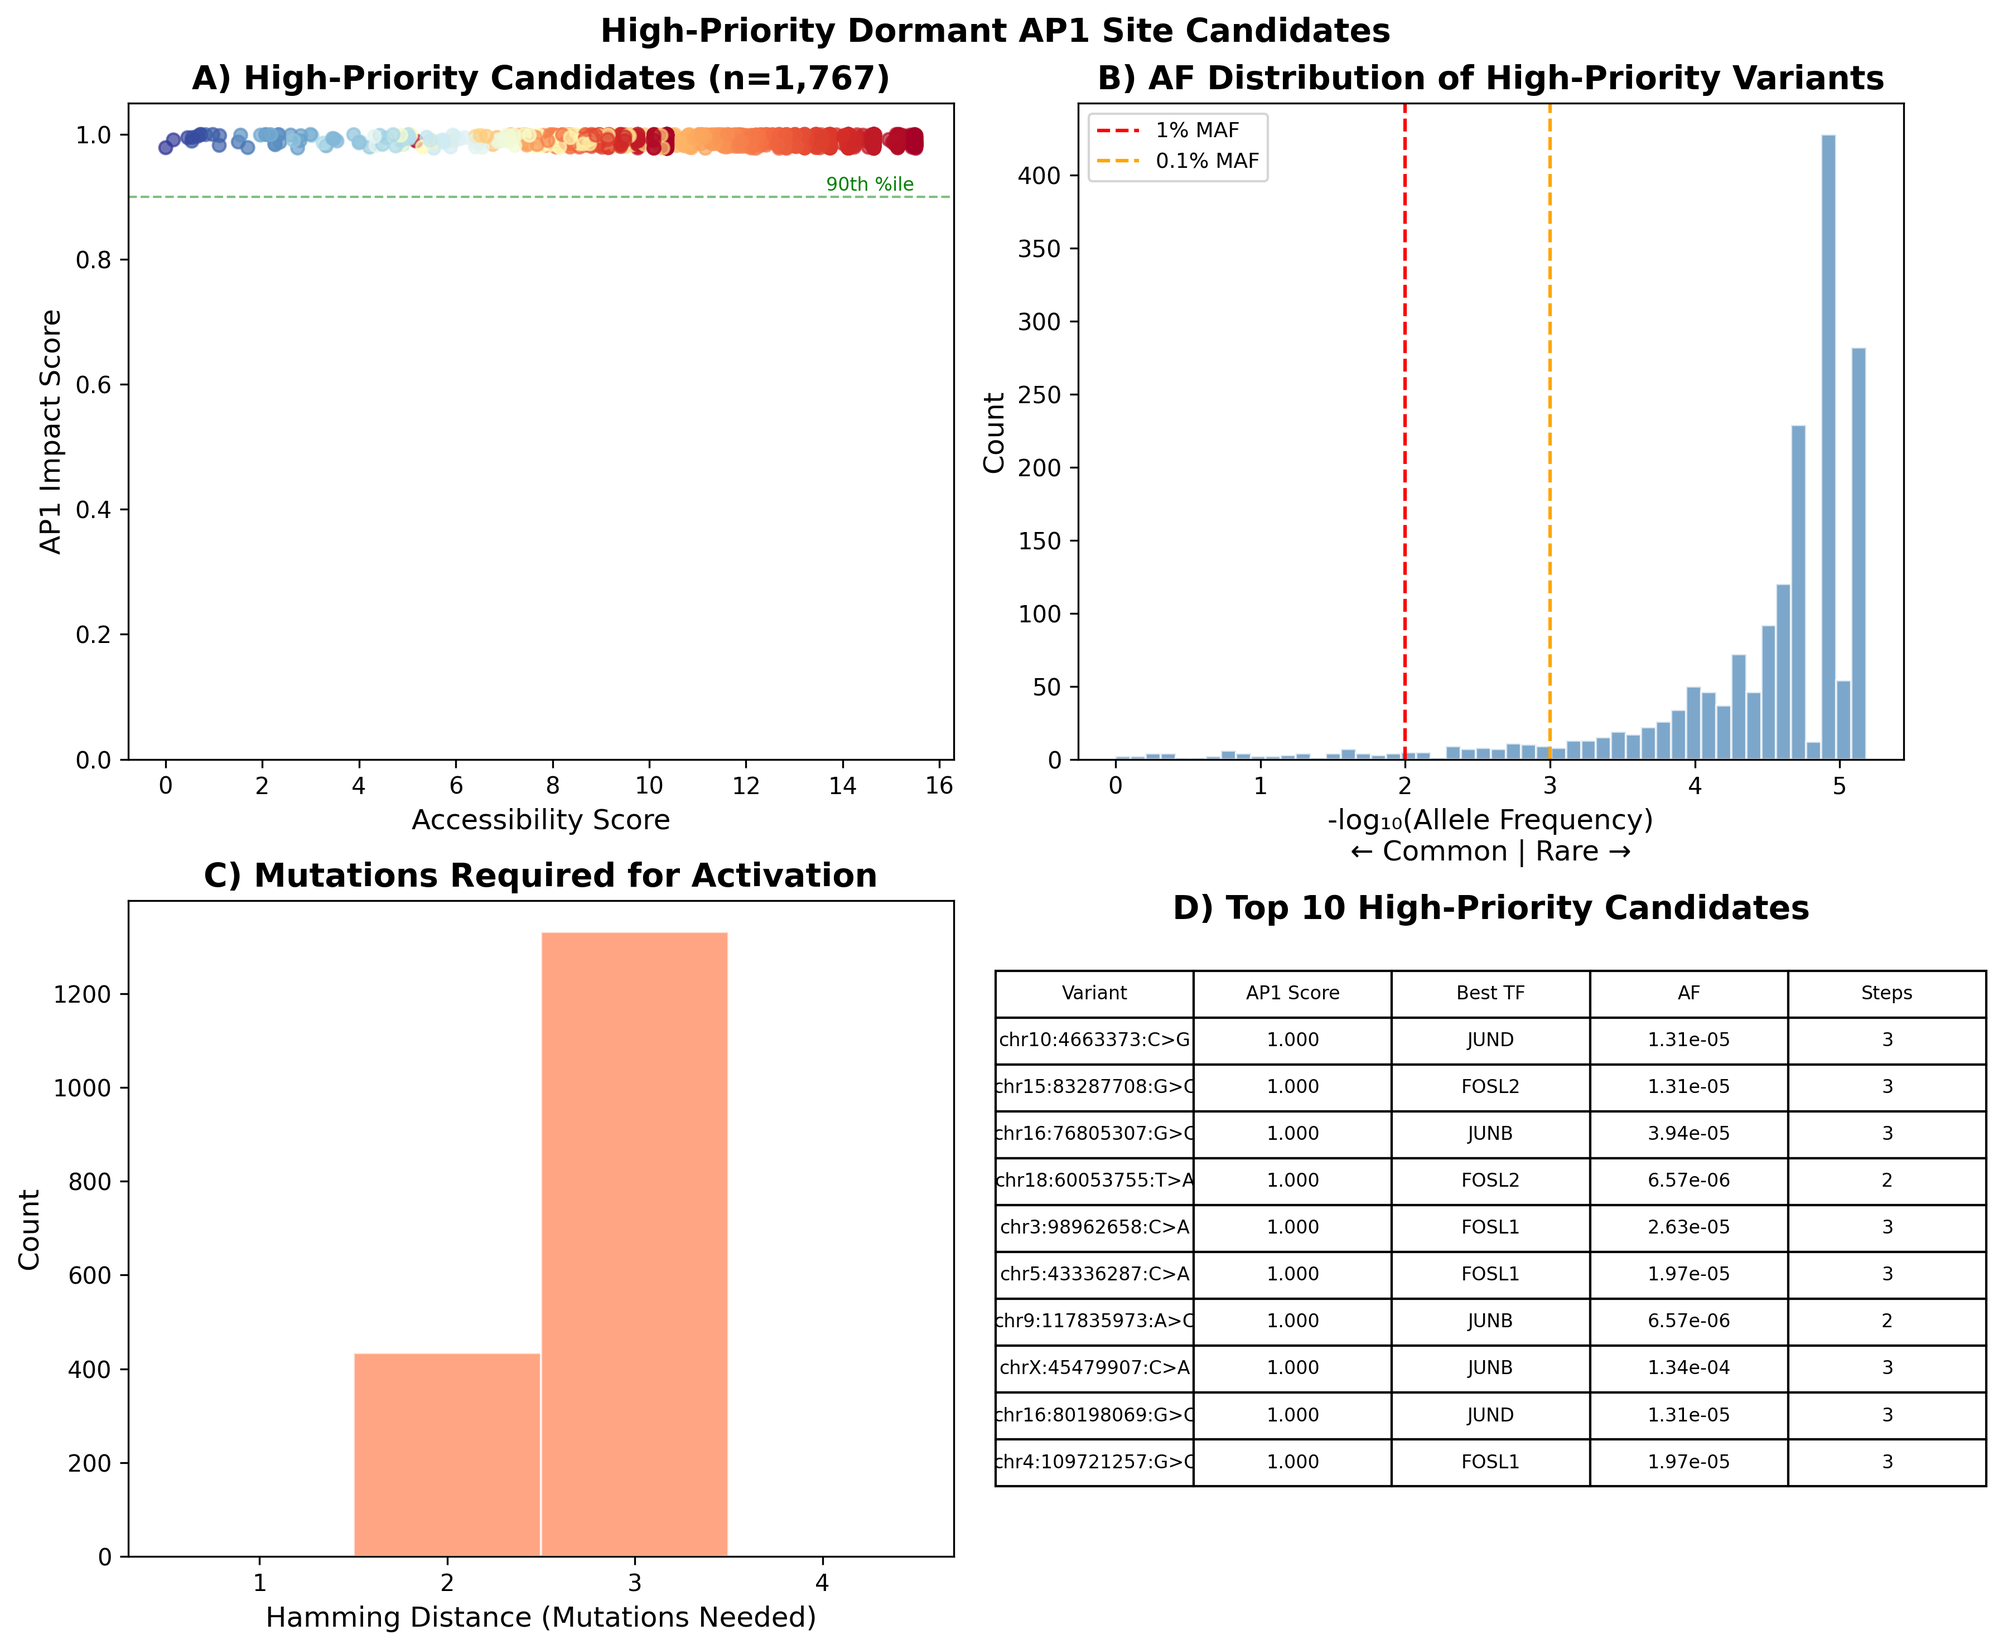
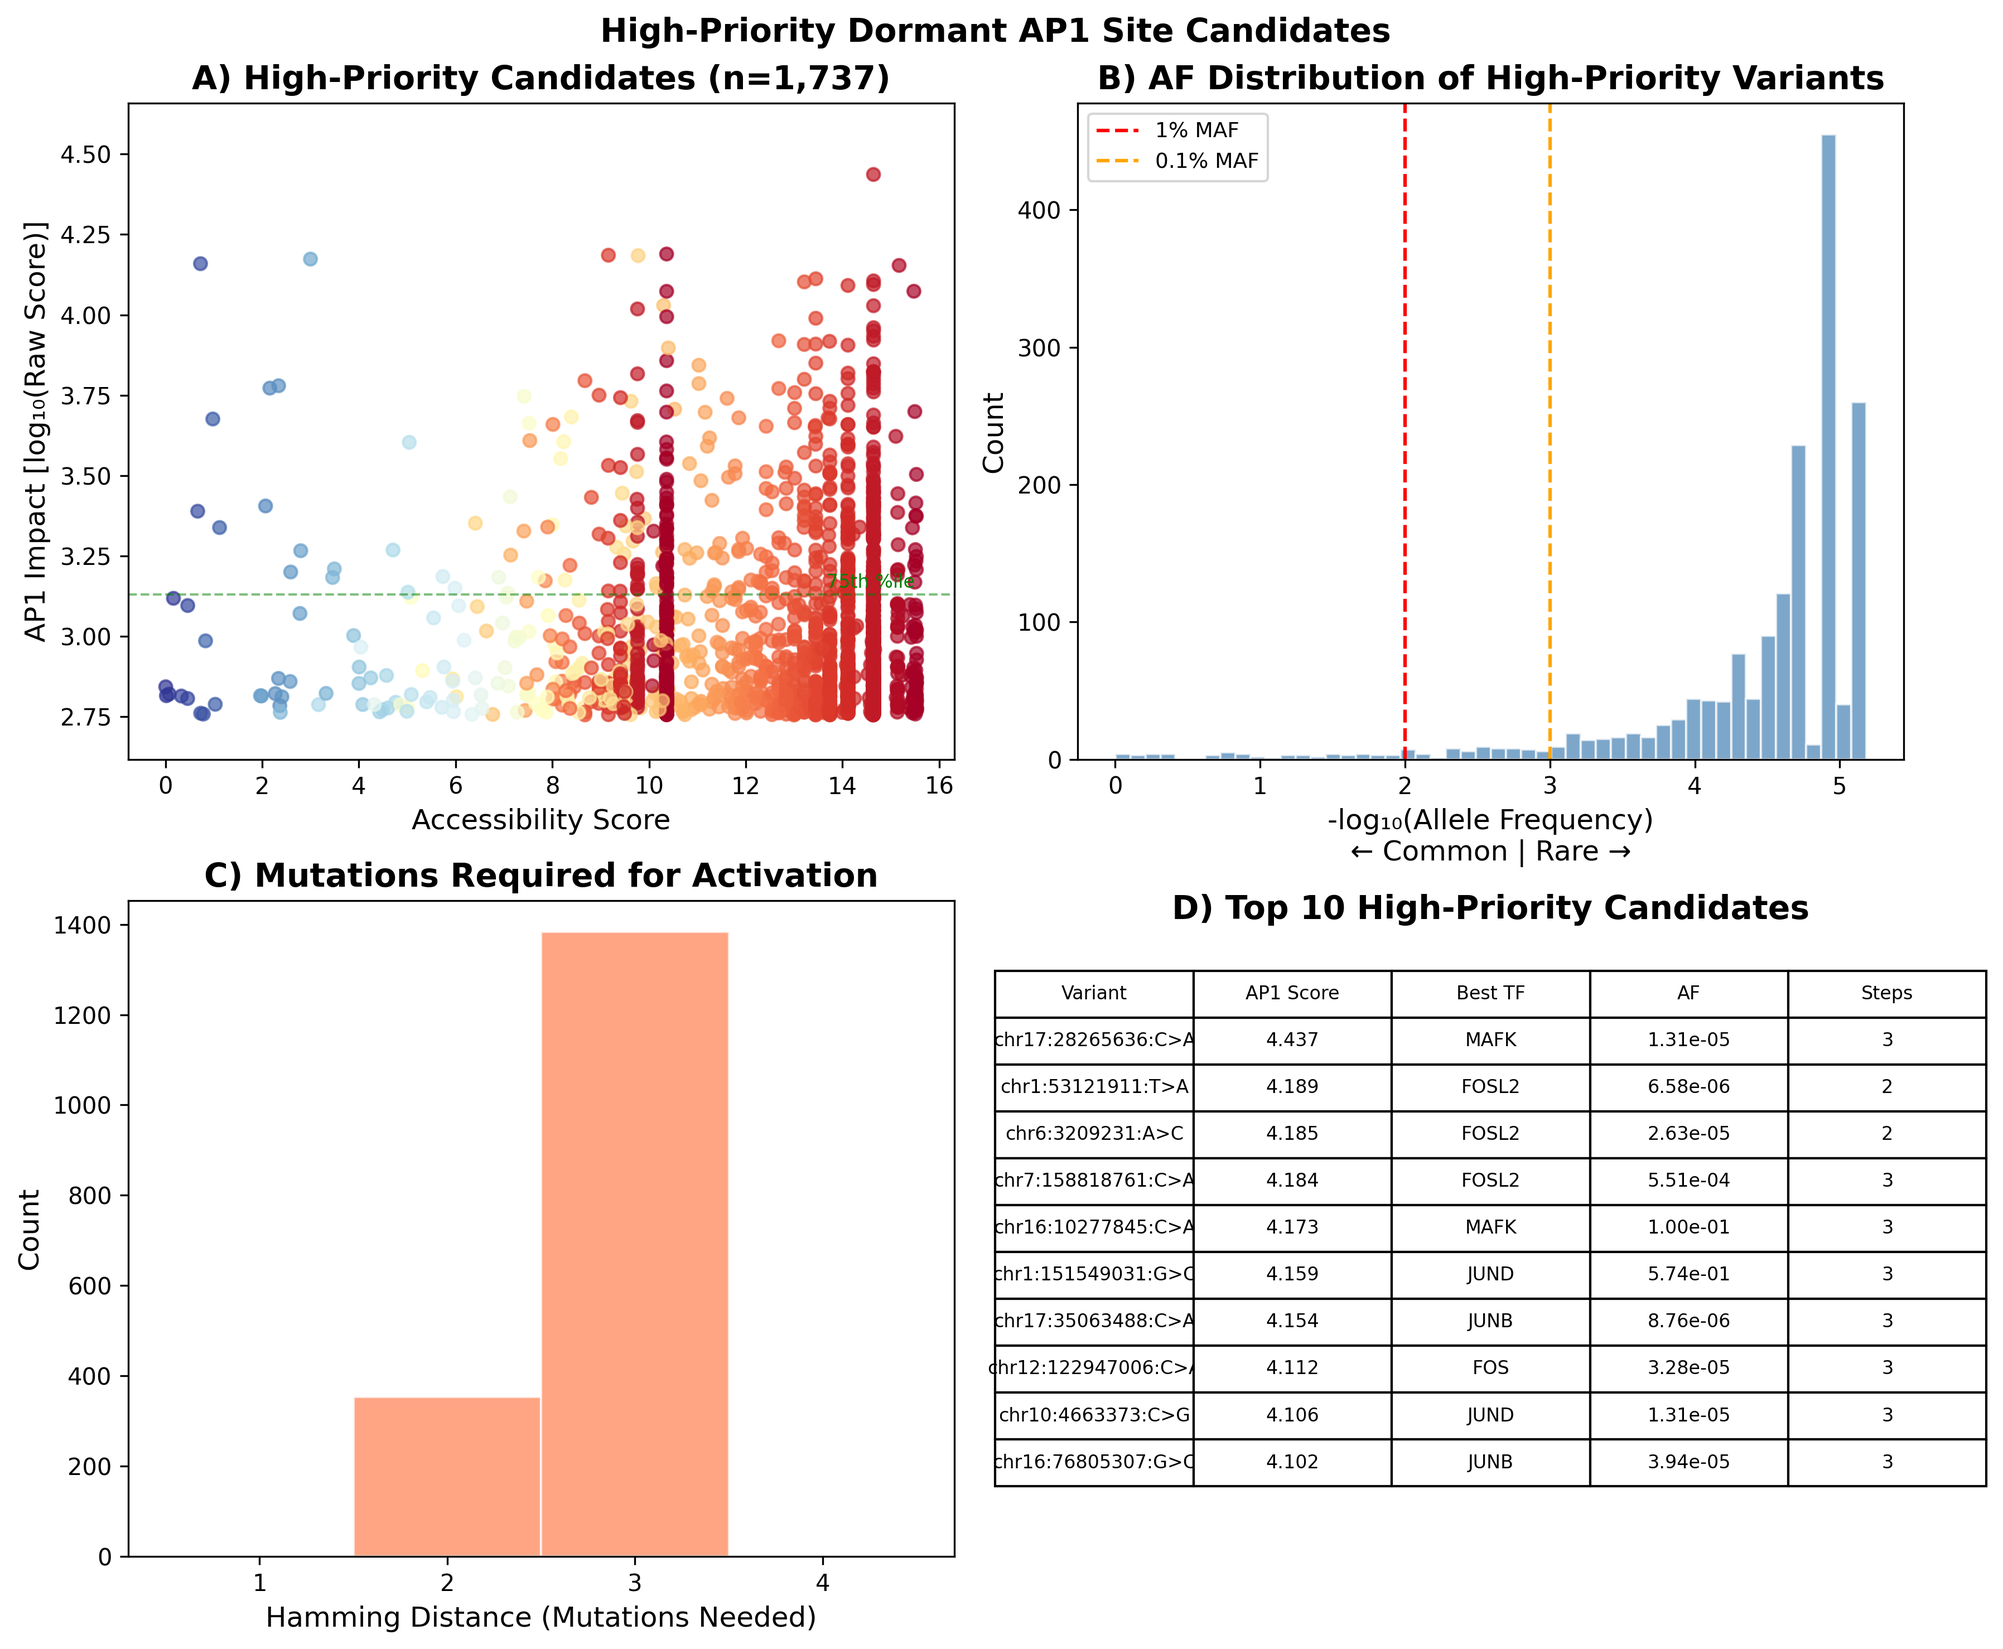
Use raw AlphaGenome scores in figures to show selection signal (r=0.099, p<1e-15)

diff --git a/05_compute_activation_landscape/plot_activation_landscape.py b/05_compute_activation_landscape/plot_activation_landscape.py
@@ -66,6 +66,9 @@ def plot_main_landscape(
     This is the key figure showing which dormant sites are both:
     - Accessible through human variation (low X)
     - Functionally impactful when activated (high Y)
+    
+    Y-axis now uses LOG-TRANSFORMED RAW SCORES (not quantile scores) to show
+    the true effect magnitude and preserve the selection signal.
     """
     fig, ax = plt.subplots(figsize=(10, 8))
     
@@ -82,6 +85,7 @@ def plot_main_landscape(
     af_colors = np.log10(plot_data['AF_final'].clip(lower=1e-6))
     
     # Main scatter plot
+    # Y-axis is now log10(raw_score), typically ranging from ~0.5 to ~4.5
     scatter = ax.scatter(
         plot_data['x_accessibility'],
         plot_data['y_ap1_impact'],
@@ -94,12 +98,16 @@ def plot_main_landscape(
         vmax=0
     )
     
-    # Force Y-axis to show FULL 0-1 scale (critical for interpretation!)
-    ax.set_ylim(0, 1.05)
+    # Y-axis: log10(raw_score) ranges from ~0.5 to ~4.5
+    # Set axis to show full range with some padding
+    y_min_data = plot_data['y_ap1_impact'].min()
+    y_max_data = plot_data['y_ap1_impact'].max()
+    ax.set_ylim(0, y_max_data * 1.1)
     
-    # Add reference line at 90th percentile
-    ax.axhline(y=0.9, color='green', linestyle=':', linewidth=1, alpha=0.7)
-    ax.text(ax.get_xlim()[0] + 0.5, 0.91, '90th percentile', fontsize=8, color='green')
+    # Add reference lines at key thresholds (75th percentile in raw score space)
+    y_75th = plot_data['y_ap1_impact'].quantile(0.75)
+    ax.axhline(y=y_75th, color='green', linestyle=':', linewidth=1, alpha=0.7)
+    ax.text(ax.get_xlim()[0] + 0.5, y_75th + 0.05, '75th %ile (strong effect)', fontsize=8, color='green')
     
     # Add colorbar
     cbar = plt.colorbar(scatter, ax=ax, label='log₁₀(Allele Frequency)', shrink=0.8)
@@ -145,7 +153,7 @@ def plot_main_landscape(
     # Labels and title
     ax.set_xlabel('Population Accessibility Score\n[-log₁₀(AF) × Hamming Distance]\n← More Accessible | Harder to Access →', 
                   fontsize=11)
-    ax.set_ylabel('AP1-Family TF Binding Impact\n[Max Quantile Score: JUND, JUN, FOS, FOSL1/2, ATF3, BATF]',
+    ax.set_ylabel('AP1-Family TF Binding Impact\n[log₁₀(Raw Effect Score)]',
                   fontsize=11)
     ax.set_title(title, fontsize=14, fontweight='bold')
     
@@ -177,10 +185,10 @@ def plot_comparison_panels(
 ):
     """
     Create multi-panel comparison figure showing:
-    1. AP1-specific Y-axis (our approach)
-    2. Global max Y-axis (naive approach)
-    3. Enhancer marks validation
-    4. Accessibility tracks
+    1. AP1-specific Y-axis using RAW SCORES (our approach - shows selection signal)
+    2. Global max Y-axis (naive approach - quantile scores)
+    3. Enhancer marks validation (quantile scores)
+    4. Correlation: raw AP1 scores vs enhancer marks
     """
     fig, axes = plt.subplots(2, 2, figsize=(14, 12))
     
@@ -189,27 +197,28 @@ def plot_comparison_panels(
     # Common settings
     x = plot_data['x_accessibility']
     
-    # Panel A: AP1-specific (PRIMARY - our approach)
+    # Panel A: AP1-specific using RAW SCORES (PRIMARY - our approach)
     ax = axes[0, 0]
-    y = plot_data['y_ap1_impact']
-    scatter = ax.scatter(x, y, c=y, cmap='Reds', alpha=0.5, s=10, vmin=0, vmax=1)
+    y = plot_data['y_ap1_impact']  # This is now log10(raw_score)
+    y_min, y_max = y.min(), y.max()
+    scatter = ax.scatter(x, y, c=y, cmap='Reds', alpha=0.5, s=10, vmin=y_min, vmax=y_max)
     ax.set_xlabel('Accessibility Score')
-    ax.set_ylabel('AP1-Family TF Impact')
-    ax.set_title('A) PRIMARY: AP1-Family TF Binding\n(JUND, JUN, FOS, FOSL1/2, ATF3, BATF)', fontweight='bold')
-    ax.set_ylim(0, 1.05)  # Full 0-1 scale for interpretability
-    plt.colorbar(scatter, ax=ax, label='Quantile Score')
+    ax.set_ylabel('AP1-Family TF Impact [log₁₀(Raw Score)]')
+    ax.set_title('A) PRIMARY: AP1-Family TF Binding (Raw Scores)\n(JUND, JUN, FOS, FOSL1/2, ATF3, BATF)', fontweight='bold')
+    plt.colorbar(scatter, ax=ax, label='log₁₀(Raw Score)')
     
-    # Add 90th percentile reference line and quadrant lines
-    ax.axhline(y=0.9, color='green', linestyle=':', linewidth=1, alpha=0.7)
+    # Add 75th percentile reference line and quadrant lines
+    y_75 = y.quantile(0.75)
+    ax.axhline(y=y_75, color='green', linestyle=':', linewidth=1, alpha=0.7)
     ax.axhline(y=y.median(), color='gray', linestyle='--', alpha=0.5)
     ax.axvline(x=x.median(), color='gray', linestyle='--', alpha=0.5)
     
-    # Panel B: Global max (for comparison)
+    # Panel B: Global max (for comparison - still quantile scores)
     ax = axes[0, 1]
     y_global = plot_data['global_max_score']
     scatter = ax.scatter(x, y_global, c=y_global, cmap='Purples', alpha=0.5, s=10, vmin=0, vmax=1)
     ax.set_xlabel('Accessibility Score')
-    ax.set_ylabel('Global Max Impact')
+    ax.set_ylabel('Global Max Impact [Quantile]')
     ax.set_title('B) COMPARISON: Global Max (All Tracks)\n(Less biologically specific)', fontweight='bold', color='gray')
     ax.set_ylim(0, 1.05)  # Full 0-1 scale for fair comparison
     plt.colorbar(scatter, ax=ax, label='Quantile Score')
@@ -217,12 +226,12 @@ def plot_comparison_panels(
     ax.axhline(y=y_global.median(), color='gray', linestyle='--', alpha=0.5)
     ax.axvline(x=x.median(), color='gray', linestyle='--', alpha=0.5)
     
-    # Panel C: Enhancer marks validation
+    # Panel C: Enhancer marks validation (quantile scores - for comparison)
     ax = axes[1, 0]
     y_enhancer = plot_data['enhancer_max_score'].fillna(0)
     scatter = ax.scatter(x, y_enhancer, c=y_enhancer, cmap='Greens', alpha=0.5, s=10, vmin=0, vmax=1)
     ax.set_xlabel('Accessibility Score')
-    ax.set_ylabel('Enhancer Mark Impact')
+    ax.set_ylabel('Enhancer Mark Impact [Quantile]')
     ax.set_title('C) VALIDATION: Enhancer Marks\n(H3K27ac, H3K4me1)', fontweight='bold')
     ax.set_ylim(0, 1.05)  # Full 0-1 scale for consistency
     plt.colorbar(scatter, ax=ax, label='Quantile Score')
@@ -230,13 +239,13 @@ def plot_comparison_panels(
     ax.axhline(y=y_enhancer.median(), color='gray', linestyle='--', alpha=0.5)
     ax.axvline(x=x.median(), color='gray', linestyle='--', alpha=0.5)
     
-    # Panel D: AP1 vs Enhancer correlation
+    # Panel D: AP1 Raw Score vs Enhancer Quantile correlation
     ax = axes[1, 1]
     valid_both = plot_data.dropna(subset=['y_ap1_impact', 'enhancer_max_score'])
     if len(valid_both) > 10:
         scatter = ax.scatter(
-            valid_both['y_ap1_impact'], 
-            valid_both['enhancer_max_score'],
+            valid_both['y_ap1_impact'],  # log10(raw_score)
+            valid_both['enhancer_max_score'],  # quantile
             c=valid_both['x_accessibility'],
             cmap='viridis_r',
             alpha=0.5, 
@@ -250,15 +259,10 @@ def plot_comparison_panels(
                 transform=ax.transAxes, fontsize=10,
                 verticalalignment='top',
                 bbox=dict(boxstyle='round', facecolor='white', alpha=0.8))
-        
-        # Add diagonal reference
-        ax.plot([0, 1], [0, 1], 'k--', alpha=0.3, label='y=x')
     
-    # Full 0-1 scale on both axes for consistency
-    ax.set_xlim(0, 1.05)
+    ax.set_xlabel('AP1-Family TF Impact [log₁₀(Raw Score)]')
+    ax.set_ylabel('Enhancer Mark Impact [Quantile]')
     ax.set_ylim(0, 1.05)
-    ax.set_xlabel('AP1-Family TF Impact')
-    ax.set_ylabel('Enhancer Mark Impact')
     ax.set_title('D) CONCORDANCE: AP1 vs Enhancer\n(Validates functional activation)', fontweight='bold')
     
     plt.suptitle('AP1 Dormant Site Activation Landscape - Multi-Modal Analysis', 
@@ -289,13 +293,14 @@ def plot_tf_breakdown(data: pd.DataFrame, output_path: Path):
         ax.text(bar.get_width() + 50, bar.get_y() + bar.get_height()/2,
                 f'{count:,}', va='center', fontsize=9)
     
-    # Panel B: Score distribution by TF
+    # Panel B: Score distribution by TF - USE RAW SCORES (log-transformed)
     ax = axes[1]
     tfs_to_plot = tf_counts.head(8).index.tolist()
     tf_data = data[data['ap1_best_tf'].isin(tfs_to_plot)]
     
     positions = range(len(tfs_to_plot))
-    bp_data = [tf_data[tf_data['ap1_best_tf'] == tf]['ap1_max_score'].dropna() 
+    # Use y_ap1_impact which is now log10(raw_score)
+    bp_data = [tf_data[tf_data['ap1_best_tf'] == tf]['y_ap1_impact'].dropna() 
                for tf in tfs_to_plot]
     
     bp = ax.boxplot(bp_data, positions=positions, patch_artist=True)
@@ -305,10 +310,11 @@ def plot_tf_breakdown(data: pd.DataFrame, output_path: Path):
     
     ax.set_xticks(positions)
     ax.set_xticklabels(tfs_to_plot, rotation=45, ha='right')
-    ax.set_ylabel('AP1 Max Quantile Score')
-    ax.set_ylim(0, 1.05)  # Full 0-1 scale for proper interpretation
-    ax.axhline(y=0.9, color='green', linestyle=':', linewidth=1, alpha=0.7)
-    ax.set_title('B) Score Distribution by TF', fontweight='bold')
+    ax.set_ylabel('AP1 Impact [log₁₀(Raw Score)]')
+    # Use data-driven y-limits for log-transformed raw scores
+    y_75 = data['y_ap1_impact'].quantile(0.75)
+    ax.axhline(y=y_75, color='green', linestyle=':', linewidth=1, alpha=0.7)
+    ax.set_title('B) Effect Size Distribution by TF', fontweight='bold')
     
     plt.suptitle('AP1-Family Transcription Factor Analysis', fontsize=12, fontweight='bold')
     plt.tight_layout()
@@ -336,7 +342,7 @@ def plot_high_priority_detail(data: pd.DataFrame, output_path: Path):
     
     fig, axes = plt.subplots(2, 2, figsize=(12, 10))
     
-    # Panel A: Zoom on high-priority quadrant - USE FULL 0-1 SCALE
+    # Panel A: Zoom on high-priority quadrant - use actual data range for log(raw_score)
     ax = axes[0, 0]
     scatter = ax.scatter(
         high_priority['x_accessibility'],
@@ -347,13 +353,17 @@ def plot_high_priority_detail(data: pd.DataFrame, output_path: Path):
         s=30
     )
     ax.set_xlabel('Accessibility Score')
-    ax.set_ylabel('AP1 Impact Score')
-    ax.set_ylim(0, 1.05)  # Full 0-1 scale to show how impressive these scores are
+    ax.set_ylabel('AP1 Impact [log₁₀(Raw Score)]')
+    # Use actual data range for log-transformed raw scores
+    y_min = high_priority['y_ap1_impact'].min() * 0.95
+    y_max = high_priority['y_ap1_impact'].max() * 1.05
+    ax.set_ylim(y_min, y_max)
     ax.set_title(f'A) High-Priority Candidates (n={len(high_priority):,})', fontweight='bold')
     
-    # Add annotation showing where the data actually is
-    ax.axhline(y=0.9, color='green', linestyle='--', alpha=0.5, linewidth=1)
-    ax.text(ax.get_xlim()[1] * 0.95, 0.91, '90th %ile', ha='right', fontsize=8, color='green')
+    # Add annotation showing 75th percentile
+    y_75 = high_priority['y_ap1_impact'].quantile(0.75)
+    ax.axhline(y=y_75, color='green', linestyle='--', alpha=0.5, linewidth=1)
+    ax.text(ax.get_xlim()[1] * 0.95, y_75 + 0.02, '75th %ile', ha='right', fontsize=8, color='green')
     
     # Panel B: AF distribution of high-priority - use -log10(AF) so higher = rarer
     ax = axes[0, 1]

diff --git a/05_compute_activation_landscape/compute_activation_landscape.py b/05_compute_activation_landscape/compute_activation_landscape.py
@@ -154,11 +154,13 @@ def compute_ap1_impact_score(predictions: pd.DataFrame) -> pd.DataFrame:
     logger.info(f"        Found {len(ap1_data):,} AP1-family TF predictions")
     
     if len(ap1_data) > 0:
-        # Get max and mean scores per variant
+        # Get max and mean scores per variant (both quantile and raw)
         ap1_agg = ap1_data.groupby('variant_id_str').agg({
-            'quantile_score': ['max', 'mean', 'count']
+            'quantile_score': ['max', 'mean', 'count'],
+            'raw_score': ['max', 'mean']  # Also get raw scores for selection analysis
         }).reset_index()
-        ap1_agg.columns = ['variant_id_str', 'ap1_max_score', 'ap1_mean_score', 'ap1_n_tracks']
+        ap1_agg.columns = ['variant_id_str', 'ap1_max_score', 'ap1_mean_score', 'ap1_n_tracks', 
+                           'ap1_max_raw_score', 'ap1_mean_raw_score']
         
         # Get the best TF and biosample for each variant (where score is max)
         idx_max = ap1_data.groupby('variant_id_str')['quantile_score'].idxmax()
@@ -173,6 +175,8 @@ def compute_ap1_impact_score(predictions: pd.DataFrame) -> pd.DataFrame:
             'ap1_max_score': np.nan,
             'ap1_mean_score': np.nan,
             'ap1_n_tracks': 0,
+            'ap1_max_raw_score': np.nan,
+            'ap1_mean_raw_score': np.nan,
             'ap1_best_tf': None,
             'ap1_best_biosample': None
         })
@@ -339,11 +343,18 @@ def compute_x_axis_accessibility(
 def create_activation_landscape(merged_data: pd.DataFrame) -> pd.DataFrame:
     """
     Create final activation landscape DataFrame with all coordinates and annotations.
+    
+    Y-axis uses LOG-TRANSFORMED RAW SCORES for proper visualization:
+    - Raw scores span 4-34,000 (huge range, hard to visualize)
+    - Log10(raw_score) gives 0.5-4.5 range (interpretable)
+    - This preserves the full dynamic range that showed purifying selection
     """
     landscape = merged_data.copy()
     
     # Define Y-axis options
-    landscape['y_ap1_impact'] = landscape['ap1_max_score']
+    # PRIMARY: Use log-transformed raw scores (shows true effect magnitude)
+    landscape['y_ap1_impact'] = np.log10(landscape['ap1_max_raw_score'].clip(lower=1))
+    landscape['y_ap1_quantile'] = landscape['ap1_max_score']  # Keep quantile for reference
     landscape['y_enhancer_impact'] = landscape['enhancer_max_score']
     landscape['y_global_impact'] = landscape['global_max_score']
     
@@ -371,12 +382,11 @@ def create_activation_landscape(merged_data: pd.DataFrame) -> pd.DataFrame:
     # Add interpretable columns
     landscape['is_common'] = landscape['AF_final'] >= 0.01  # ≥1% MAF
     landscape['is_single_step'] = landscape['hamming_distance'] == 1
-    landscape['shows_ap1_gain'] = landscape['ap1_max_score'] > 0.9  # Top 10% quantile
+    # Use raw score threshold (median ~550, top 25% ~800)
+    landscape['shows_ap1_gain'] = landscape['ap1_max_raw_score'] > 800  # Top ~25% raw score
     landscape['shows_enhancer_gain'] = landscape['enhancer_max_score'] > 0.9
-    
+
     return landscape
-
-
 def save_results(
     landscape: pd.DataFrame,
     output_dir: Path,
